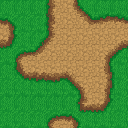
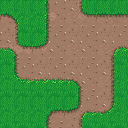
街の外のマップを作り直し、森・湖の岸・門の広場を足す
- マップを 24×20 に広げる（北西に花畑、北東に森と門の広場、南東に湖、まん中に街）
- 地面を Pixellab の pro で作り直す：道・湖（砂の岸）・森の地面・石だたみ・森の中の道
- 置く物を足す：松・しげみ・立て札・あし・はすの葉・きのこ・切り株
- 地面を「2つの地形をつなぐ絵の組（ground.sets）」で描けるようにする（前の terrains の形も読める）
- 地面の絵を取ってくる scripts/fetch_tileset.mjs を足す。前のマップは art/old-map/ に残す

diff --git a/src/lib/game/fieldMap.ts b/src/lib/game/fieldMap.ts
@@ -2,7 +2,8 @@
  * 街の外のマップ（歩きまわってモンスターに出会う）。画面には触らない。
  *
  * マップは街ごとのファイル public/maps/{街のID}.json に置く。街を足すときは、ファイルを足すだけでよい。
- *   ground     : 地面。base（草など）と、それとつながる地形（水・道など）の絵。地形の境目は角ごとに絵を選んでなめらかにつなぐ
+ *   ground     : 地面。base（草など）と、2つの地形をつなぐ絵の組（sets：水と草、道と森の地面など）。
+ *                地形の境目は角ごとに絵を選んでなめらかにつなぐ。前の形（terrains：base とつながる地形ごとの絵）も読める
  *   objects    : 木・岩・草むら・街などの、地面の上に置く絵（マスの下ぞろえ、左右まんなか）
  *   tiles      : 地形の文字ごとの決まり（地面、置く物、歩けるか、出会いやすさ、街の入口か）
  *   rows       : 地形を文字で並べたもの（1文字が1マス）
@@ -22,7 +23,7 @@ import {
 } from './rules';
 
 export type TileDef = {
-  /** 地面の種類（ground.base か ground.terrains の名前） */
+  /** 地面の種類（ground.base か、ground.sets に出てくる地形の名前） */
   ground: string;
   /** 上に置く物（objects の名前）。なければ null */
   object: string | null;
@@ -41,15 +42,17 @@ export type AreaDef = {
   skills: Partial<Record<Skill, number>>;
 };
 
-/** つながる地形の絵。corners は「北西・北東・南西・南東」の角が u（base 側）か l（その地形）かで、絵の位置を引く */
-export type TerrainDef = { sheet: string; corners: Record<string, [number, number]> };
+/**
+ * 2つの地形をつなぐ絵の組。corners は「北西・北東・南西・南東」の角が u（upper の地形）か l（lower の地形）かで、絵の位置を引く
+ */
+export type TerrainSet = { lower: string; upper: string; sheet: string; corners: Record<string, [number, number]> };
 
 export type ObjectDef = { image: string; /** 主人公より下に描く（草むら・花など） */ underHero: boolean };
 
 export type FieldMap = {
   townId: string;
   tileSize: number;
-  ground: { base: string; terrains: Record<string, TerrainDef> };
+  ground: { base: string; sets: TerrainSet[] };
   objects: Record<string, ObjectDef>;
   width: number;
   height: number;
@@ -95,20 +98,34 @@ export function parseFieldMap(raw: unknown): FieldMap {
   const groundRaw = isObject(raw.ground) ? raw.ground : {};
   const base = typeof groundRaw.base === 'string' ? groundRaw.base : '';
   if (!base) problems.push('ground.base（いちばん下の地面）がありません');
-  const terrains: Record<string, TerrainDef> = {};
+  const sets: TerrainSet[] = [];
+  const readCorners = (label: string, def: Record<string, unknown>) => {
+    const corners: Record<string, [number, number]> = {};
+    for (const [key, xy] of Object.entries(isObject(def.corners) ? def.corners : {})) {
+      if (/^[ul]{4}$/.test(key) && Array.isArray(xy) && xy.length === 2) corners[key] = [Number(xy[0]), Number(xy[1])];
+    }
+    if (Object.keys(corners).length !== 16) problems.push(`${label} の corners は16通りそろえてください`);
+    return corners;
+  };
+  // 前の形：base とつながる地形ごとの絵（lower がその地形、upper が base）
   for (const [name, def] of Object.entries(isObject(groundRaw.terrains) ? groundRaw.terrains : {})) {
-    if (!isObject(def) || typeof def.sheet !== 'string' || !isObject(def.corners)) {
+    if (!isObject(def) || typeof def.sheet !== 'string') {
       problems.push(`ground.terrains の「${name}」の形が正しくありません`);
       continue;
     }
-    const corners: Record<string, [number, number]> = {};
-    for (const [key, xy] of Object.entries(def.corners)) {
-      if (/^[ul]{4}$/.test(key) && Array.isArray(xy) && xy.length === 2) corners[key] = [Number(xy[0]), Number(xy[1])];
-    }
-    if (Object.keys(corners).length !== 16) problems.push(`ground.terrains の「${name}」の corners は16通りそろえてください`);
-    terrains[name] = { sheet: def.sheet, corners };
+    sets.push({ lower: name, upper: base, sheet: def.sheet, corners: readCorners(`ground.terrains の「${name}」`, def) });
   }
-  if (Object.keys(terrains).length === 0) problems.push('ground.terrains がありません（base の絵もここから取る）');
+  // 今の形：2つの地形をつなぐ絵の組
+  (Array.isArray(groundRaw.sets) ? groundRaw.sets : []).forEach((def: unknown, i: number) => {
+    const label = `ground.sets の ${i + 1} 番目`;
+    if (!isObject(def) || typeof def.sheet !== 'string' || typeof def.lower !== 'string' || typeof def.upper !== 'string') {
+      problems.push(`${label} の形が正しくありません（lower・upper・sheet・corners）`);
+      return;
+    }
+    sets.push({ lower: def.lower, upper: def.upper, sheet: def.sheet, corners: readCorners(label, def) });
+  });
+  if (sets.length === 0) problems.push('ground.sets がありません（base の絵もここから取る）');
+  const groundNames = new Set([base, ...sets.flatMap((s) => [s.lower, s.upper])]);
 
   const objects: Record<string, ObjectDef> = {};
   for (const [name, def] of Object.entries(isObject(raw.objects) ? raw.objects : {})) {
@@ -125,7 +142,7 @@ export function parseFieldMap(raw: unknown): FieldMap {
         continue;
       }
       const ground = typeof def.ground === 'string' ? def.ground : '';
-      if (ground !== base && !terrains[ground]) problems.push(`tiles の「${ch}」の ground「${ground}」が ground にありません`);
+      if (!groundNames.has(ground)) problems.push(`tiles の「${ch}」の ground「${ground}」が ground にありません`);
       const object = typeof def.object === 'string' ? def.object : null;
       if (object && !objects[object]) problems.push(`tiles の「${ch}」の object「${object}」が objects にありません`);
       const encounter = def.encounter === undefined || def.encounter === null ? null : Number(def.encounter);
@@ -176,7 +193,7 @@ export function parseFieldMap(raw: unknown): FieldMap {
   const map: FieldMap = {
     townId,
     tileSize,
-    ground: { base, terrains },
+    ground: { base, sets },
     objects,
     width,
     height,
@@ -200,19 +217,25 @@ export function tileAt(map: FieldMap, x: number, y: number): TileDef | null {
 /**
  * 地面の絵を選ぶ。絵はマスの角（頂点）ごとに1枚置き、その4方のマスの地面で、どの絵にするかを決める
  * （vx, vy は頂点の位置。0〜width, 0〜height）。マップの外は、いちばん近いマスと同じにする。
- * 4方に base 以外の地面が2種類あるときは、先に見つかったほうを使い、もう一方は base として扱う。
+ * 4方の地面をいちばん多く含む絵の組を使う（同じなら sets の先のほう）。組にない地面は upper として扱う。
  */
-export function groundAt(map: FieldMap, vx: number, vy: number): { terrain: string; sx: number; sy: number } | null {
+export function groundAt(map: FieldMap, vx: number, vy: number): { sheet: string; sx: number; sy: number } | null {
   const cell = (x: number, y: number) =>
     tileAt(map, Math.min(Math.max(x, 0), map.width - 1), Math.min(Math.max(y, 0), map.height - 1))?.ground ?? map.ground.base;
   const four = [cell(vx - 1, vy - 1), cell(vx, vy - 1), cell(vx - 1, vy), cell(vx, vy)];
-  const other = four.find((g) => g !== map.ground.base && map.ground.terrains[g]);
-  const terrain = other ?? Object.keys(map.ground.terrains)[0];
-  const def = map.ground.terrains[terrain];
-  if (!def) return null;
-  const key = other ? four.map((g) => (g === other ? 'l' : 'u')).join('') : 'uuuu';
-  const xy = def.corners[key];
-  return xy ? { terrain, sx: xy[0], sy: xy[1] } : null;
+  let best: TerrainSet | null = null;
+  let bestScore = -1;
+  for (const set of map.ground.sets) {
+    const score = four.filter((g) => g === set.lower || g === set.upper).length;
+    if (score > bestScore) {
+      best = set;
+      bestScore = score;
+    }
+  }
+  if (!best) return null;
+  const key = four.map((g) => (g === best.lower ? 'l' : 'u')).join('');
+  const xy = best.corners[key];
+  return xy ? { sheet: best.sheet, sx: xy[0], sy: xy[1] } : null;
 }
 
 export function areaAt(map: FieldMap, x: number, y: number): AreaDef | null {

diff --git a/src/screens/MapScreen.tsx b/src/screens/MapScreen.tsx
@@ -157,7 +157,7 @@ export function MapScreen({
           HERO_MAP_UP_IMAGE,
           HERO_MAP_DOWN_IMAGE,
           HERO_IMAGE,
-          ...(m ? Object.values(m.ground.terrains).map((t) => t.sheet) : []),
+          ...(m ? m.ground.sets.map((s) => s.sheet) : []),
           ...(m ? Object.values(m.objects).map((o) => o.image) : []),
         ];
         const loaded = await Promise.all(sources.map(loadImage));
@@ -224,7 +224,7 @@ export function MapScreen({
     for (let vy = y0 + 1; vy <= y1; vy++) {
       for (let vx = x0 + 1; vx <= x1; vx++) {
         const g = groundAt(map, vx, vy);
-        const sheet = g ? images.get(map.ground.terrains[g.terrain].sheet) : null;
+        const sheet = g ? images.get(g.sheet) : null;
         const dx = ox + Math.round((vx - 0.5) * CELL);
         const dy = oy + Math.round((vy - 0.5) * CELL);
         if (g && sheet) ctx.drawImage(sheet, g.sx, g.sy, ts, ts, dx, dy, CELL, CELL);

diff --git a/CLAUDE.md b/CLAUDE.md
@@ -49,7 +49,7 @@
 - `scripts/make_sprites.mjs` は前の仮の絵を作るスクリプト。実行すると Pixellab の絵が上書きされるので使わない。前の絵そのものは `art/old-sprites/` に残してある（`art/README.md`）。
 
 - だれでも参加できるようにする（2026-11-16）。ログイン画面に「Google でログイン」を置き、はじめての人はそのままアカウントができる。メールアドレス＋パスワードのログインも残す。設定は `docs/setup_google_login.md`。教材の取り込みは管理者（`app_admins`）だけ。AI の料金は参加した人の分もこのアプリのキーで払うので、各社の管理画面で上限を決めておく。
-- 街の外はマップを歩いてモンスターに出会う形（2026-11-16）。選んで戦う入口は、街の「スキルダンジョン」に分けた（戦闘のあとは始めた場所にもどる）。マップは `public/maps/{街のID}.json`（地形・場所・出やすい能力値。街を足すときはファイルを足すだけ）、出会いの計算は `src/lib/game/fieldMap.ts`、数値は `rules.ts`。マップの絵は Pixellab で作った（32×32）。地面は `public/maps/terrain-water.png`・`terrain-path.png`（草とつながる Wang タイル。境目は角ごとに絵を選んでなめらかにつなぐ）、置く物は `public/maps/obj-*.png`（木・岩・草むら・花・街）、マップ用の小さい主人公は `public/hero/hero-map.png`（真横の左向き。右へ歩くときは反転）、上へ歩くときの後ろ姿は `hero-map-up.png`、下へ歩くときの正面は `hero-map-down.png`（どれも Pixellab で、もとの絵から作った）。ボスは街のメニューではなく、マップの奥のボスの場所（tiles の "boss": true。最初の街は、ささやきの森の奥「ことだまの門」、`public/maps/obj-bossgate.png`）を踏んで会いに行く（2026-11-17）。差し替えは同じ名前・同じ並びの PNG で上書きする。
+- 街の外はマップを歩いてモンスターに出会う形（2026-11-16）。選んで戦う入口は、街の「スキルダンジョン」に分けた（戦闘のあとは始めた場所にもどる）。マップは `public/maps/{街のID}.json`（地形・場所・出やすい能力値。街を足すときはファイルを足すだけ）、出会いの計算は `src/lib/game/fieldMap.ts`、数値は `rules.ts`。マップの絵は Pixellab で作った（32×32）。地面は Wang タイルの組（2つの地形をつなぐ絵。境目は角ごとに絵を選んでなめらかにつなぐ）で、マップのファイルの `ground.sets` に書く：`public/maps/terrain-path.png`（道と草）・`terrain-water.png`（湖と草、砂の岸つき）・`terrain-forest.png`（森の地面と草）・`terrain-stone.png`（石だたみと草）・`terrain-path-forest.png`（道と森の地面）。組のない地形どうし（例：水と道）はとなりに置かない。2026-11-17 に Pixellab の pro で作り直し、マップを 24×20 に広げた（前の絵とマップは `art/old-map/`）。新しい地面の絵は `node scripts/fetch_tileset.mjs <ID> <保存先>` で取ってきて、表示された corners を書く。置く物は `public/maps/obj-*.png`（木・松・しげみ・岩・切り株・立て札・草むら・花・きのこ・あし・はす・街・門）、マップ用の小さい主人公は `public/hero/hero-map.png`（真横の左向き。右へ歩くときは反転）、上へ歩くときの後ろ姿は `hero-map-up.png`、下へ歩くときの正面は `hero-map-down.png`（どれも Pixellab で、もとの絵から作った）。ボスは街のメニューではなく、マップの奥のボスの場所（tiles の "boss": true。最初の街は、ささやきの森の奥「ことだまの門」、`public/maps/obj-bossgate.png`）を踏んで会いに行く（2026-11-17）。差し替えは同じ名前・同じ並びの PNG で上書きする。
 - めずらしいモンスター（2026-11-17）：街の外でだけ、まれに出会う。skill なし・encounter_rate（出会う割合）つきで `data/town01_monsters.json` に書く。ひらめきボタル（1%、勝つと経験値300を出た能力値で分ける）、こばんガエル（4%、80G）。データベースに列を足す SQL は `supabase/migrations/20261117000000_rare_monsters.sql`。
 
 ## 未決

diff --git a/docs/spec.md b/docs/spec.md
@@ -200,7 +200,7 @@
 | 主人公の名前 | 主人公に名前をつける（8文字まで）。名前がまだないとき（最初のログインのあと）は街より先に出す。設定からも変えられる。問題文の名前とは別 | 第1段階 |
 | 街 | 街の絵と行き先のメニュー（街の外、スキルダンジョン、ことのは工房（店）、ステータス）。ボスのいる場所と、挑めるまであと何問かを1行で出す。下がりかけの能力値を「今日のおすすめ」として出す | 第1段階 |
 | ステータス | 六角形、総合レベル、称号、所持金、装備中の武器と防具 | 第1段階 |
-| 街の外（マップ） | 十字のボタン（PC は矢印キー。左右の位置は設定で選ぶ）で歩き、モンスターに出会う。いる場所の名前と出やすい能力値を出す。街の入口を踏むと街にもどる。ボスのいる場所（tiles の "boss": true）を踏むとボスの画面を開く。マップは街ごとのファイル public/maps/{街のID}.json | 第1段階 |
+| 街の外（マップ） | 十字のボタン（PC は矢印キー。左右の位置は設定で選ぶ）で歩き、モンスターに出会う。いる場所の名前と出やすい能力値を出す。街の入口を踏むと街にもどる。ボスのいる場所（tiles の "boss": true）を踏むとボスの画面を開く。マップは街ごとのファイル public/maps/{街のID}.json。地面は2つの地形をつなぐ絵の組（ground.sets）で描く。最初の街は 24×20（北西に花畑、北東に森と門、南東に湖、まん中に街） | 第1段階 |
 | あそびかた | 5ページの説明（ようこそ・六角形・戦いかた・街でできること・毎日のコツ）。はじめての人は主人公に名前をつけた直後に読む（とばせる）。設定の「あそびかた」からいつでも見返せる（2026-11-17 本人が決定） | 第1段階 |
 | スキルダンジョン | 街から行く。能力値ごとの部屋で、戦うモンスターを選ぶ。能力値ごとのモンスターと復活モンスターが並ぶ。未解放の能力値は鍵つきで表示 | 第1段階 |
 | 戦闘 | モンスターの絵、双方のHP、問題を表示。答えるたびに攻撃か被ダメージが起きる。スピーキングは録音ボタン、ライティングは入力欄で答え、AIの評価と助言を表示。おかしい問題に印をつけられる | 第1段階 |

diff --git a/art/README.md b/art/README.md
@@ -9,3 +9,4 @@
 - `pixellab-original/town01-boss-armored.png`：最初の Pixellab のボス（よろいの騎士）。2026-11-17 に「最初の街には強そうすぎる」ため、狼のボスに差し替えた。戻すときは `public/monsters/town01-boss.png` にコピーし、`scripts/make_breath_frames.ps1` のボスの SplitRow を 73 に戻して動かす。
 - `pixellab-original/hero-map-three-quarter.png`：マップ用の主人公の、最初の絵（ななめ前向き）。2026-11-17 に、横へ歩くときは真横を向いた絵（`public/hero/hero-map.png`、左向き）に差し替えた。
 - `icon-candidates/`：アプリのアイコンの案（2026-11-17）。本人が選んだのは A（`icon-A.png` に文字を入れた `icon-A-title.png`）。ほかは見比べた案。
+- `old-map/`：2026-11-17 に作り直す前の街の外のマップ（20×16 の town01.json と、地面の絵 terrain-water.png・terrain-path.png）。戻すときは public/maps/ に上書きする。
